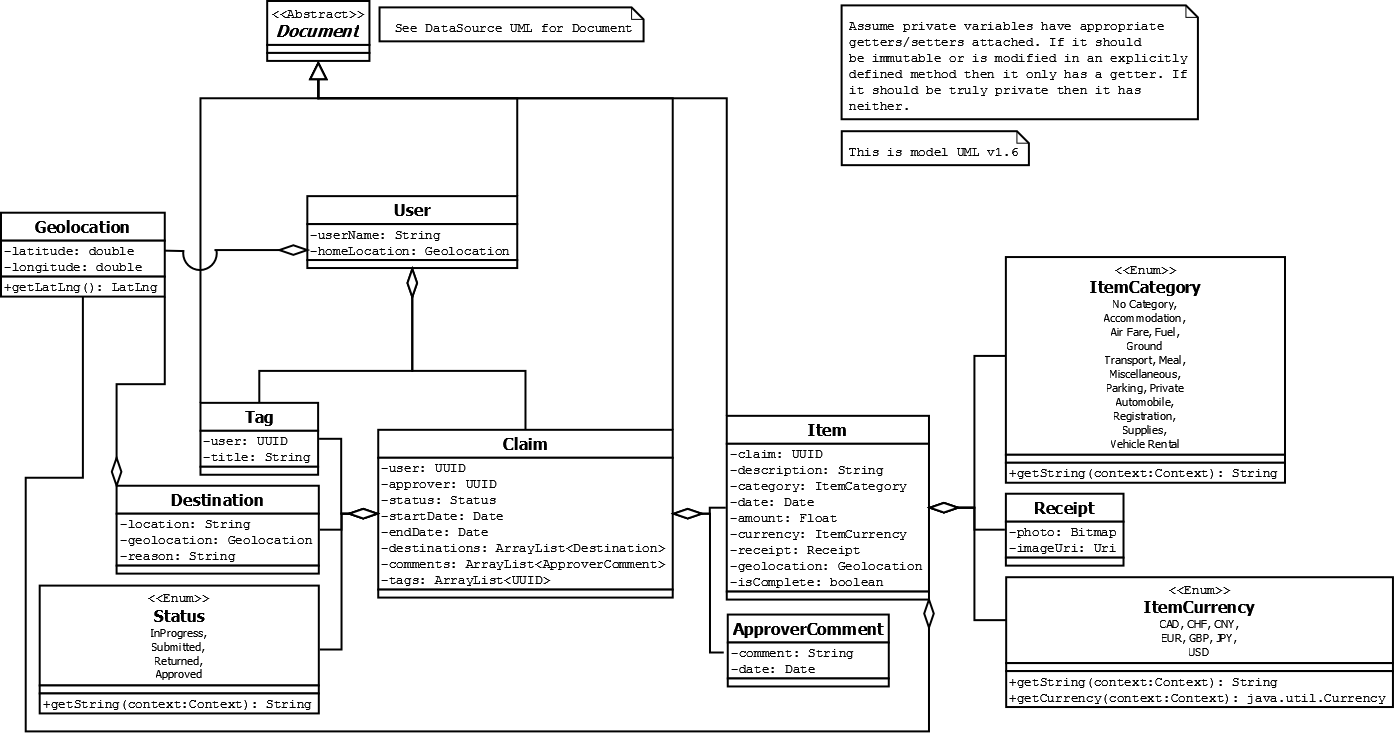
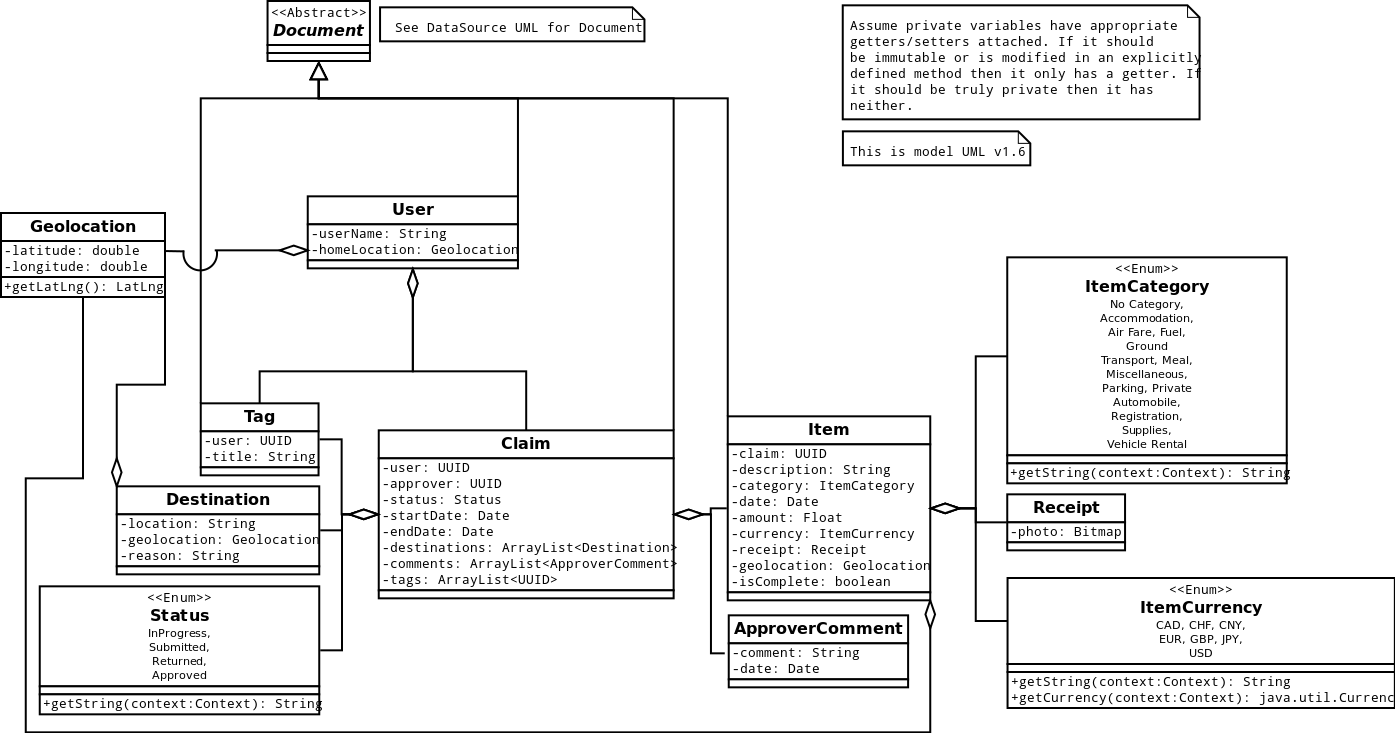
removed unused uri reference from model, update UML

diff --git a/src/cmput301w15t07/TravelTracker/activity/ExpenseItemInfoActivity.java b/src/cmput301w15t07/TravelTracker/activity/ExpenseItemInfoActivity.java
@@ -512,7 +512,7 @@ public class ExpenseItemInfoActivity extends TravelTrackerActivity implements Ob
 					// TODO Auto-generated catch block
 					e.printStackTrace();
 				}
-				item.setReceipt(new Receipt(imageBitmap,imageUri));
+				item.setReceipt(new Receipt(imageBitmap));
 		}
 		//if result is from chooseImageFromGallery()
 		//refrenced viralpirate.net/blocks/pick-image-from-galary-android-app
@@ -528,7 +528,7 @@ public class ExpenseItemInfoActivity extends TravelTrackerActivity implements Ob
 			String picturePath = cursor.getString(columnIndex);
 			cursor.close();
 			
-			item.setReceipt(new Receipt(BitmapFactory.decodeFile(picturePath),imageUri));
+			item.setReceipt(new Receipt(BitmapFactory.decodeFile(picturePath)));
 			
 		}
 	}

diff --git a/src/cmput301w15t07/TravelTracker/model/Receipt.java b/src/cmput301w15t07/TravelTracker/model/Receipt.java
@@ -36,15 +36,14 @@ import android.net.Uri;
  */
 public class Receipt {
 	private Bitmap photo;
-	private Uri imageUri;
 	
-	public Receipt(Bitmap photo, Uri uri) {
+	public Receipt(Bitmap photo) {
 		this.photo = photo;
-		this.imageUri = uri;
+		
 	}
 	
 	public Receipt() {
-		this(null,null);  //TODO add a default Bitmap somehow
+		this(null);  //TODO add a default Bitmap somehow
 	}
 
 	/**
@@ -55,7 +54,4 @@ public class Receipt {
 		return photo;
 	}
 
-	public Uri getUri(){
-		return imageUri;
-	}
 }

diff --git a/src/cmput301w15t07/TravelTracker/activity/ReceiptImageViewActivity.java b/src/cmput301w15t07/TravelTracker/activity/ReceiptImageViewActivity.java
@@ -83,6 +83,10 @@ public class ReceiptImageViewActivity extends TravelTrackerActivity {
         // Do nothing
     }
 	
+    /**
+     * Load the image into the imageveiw
+     * @param image the bitmap image to be loaded into the imageView 
+     */
 	protected void loadImage(Bitmap image) {
 		ImageView imageView = (ImageView) findViewById(R.id.receipt_image_veiw_imageView);
 		if (image != null) {
